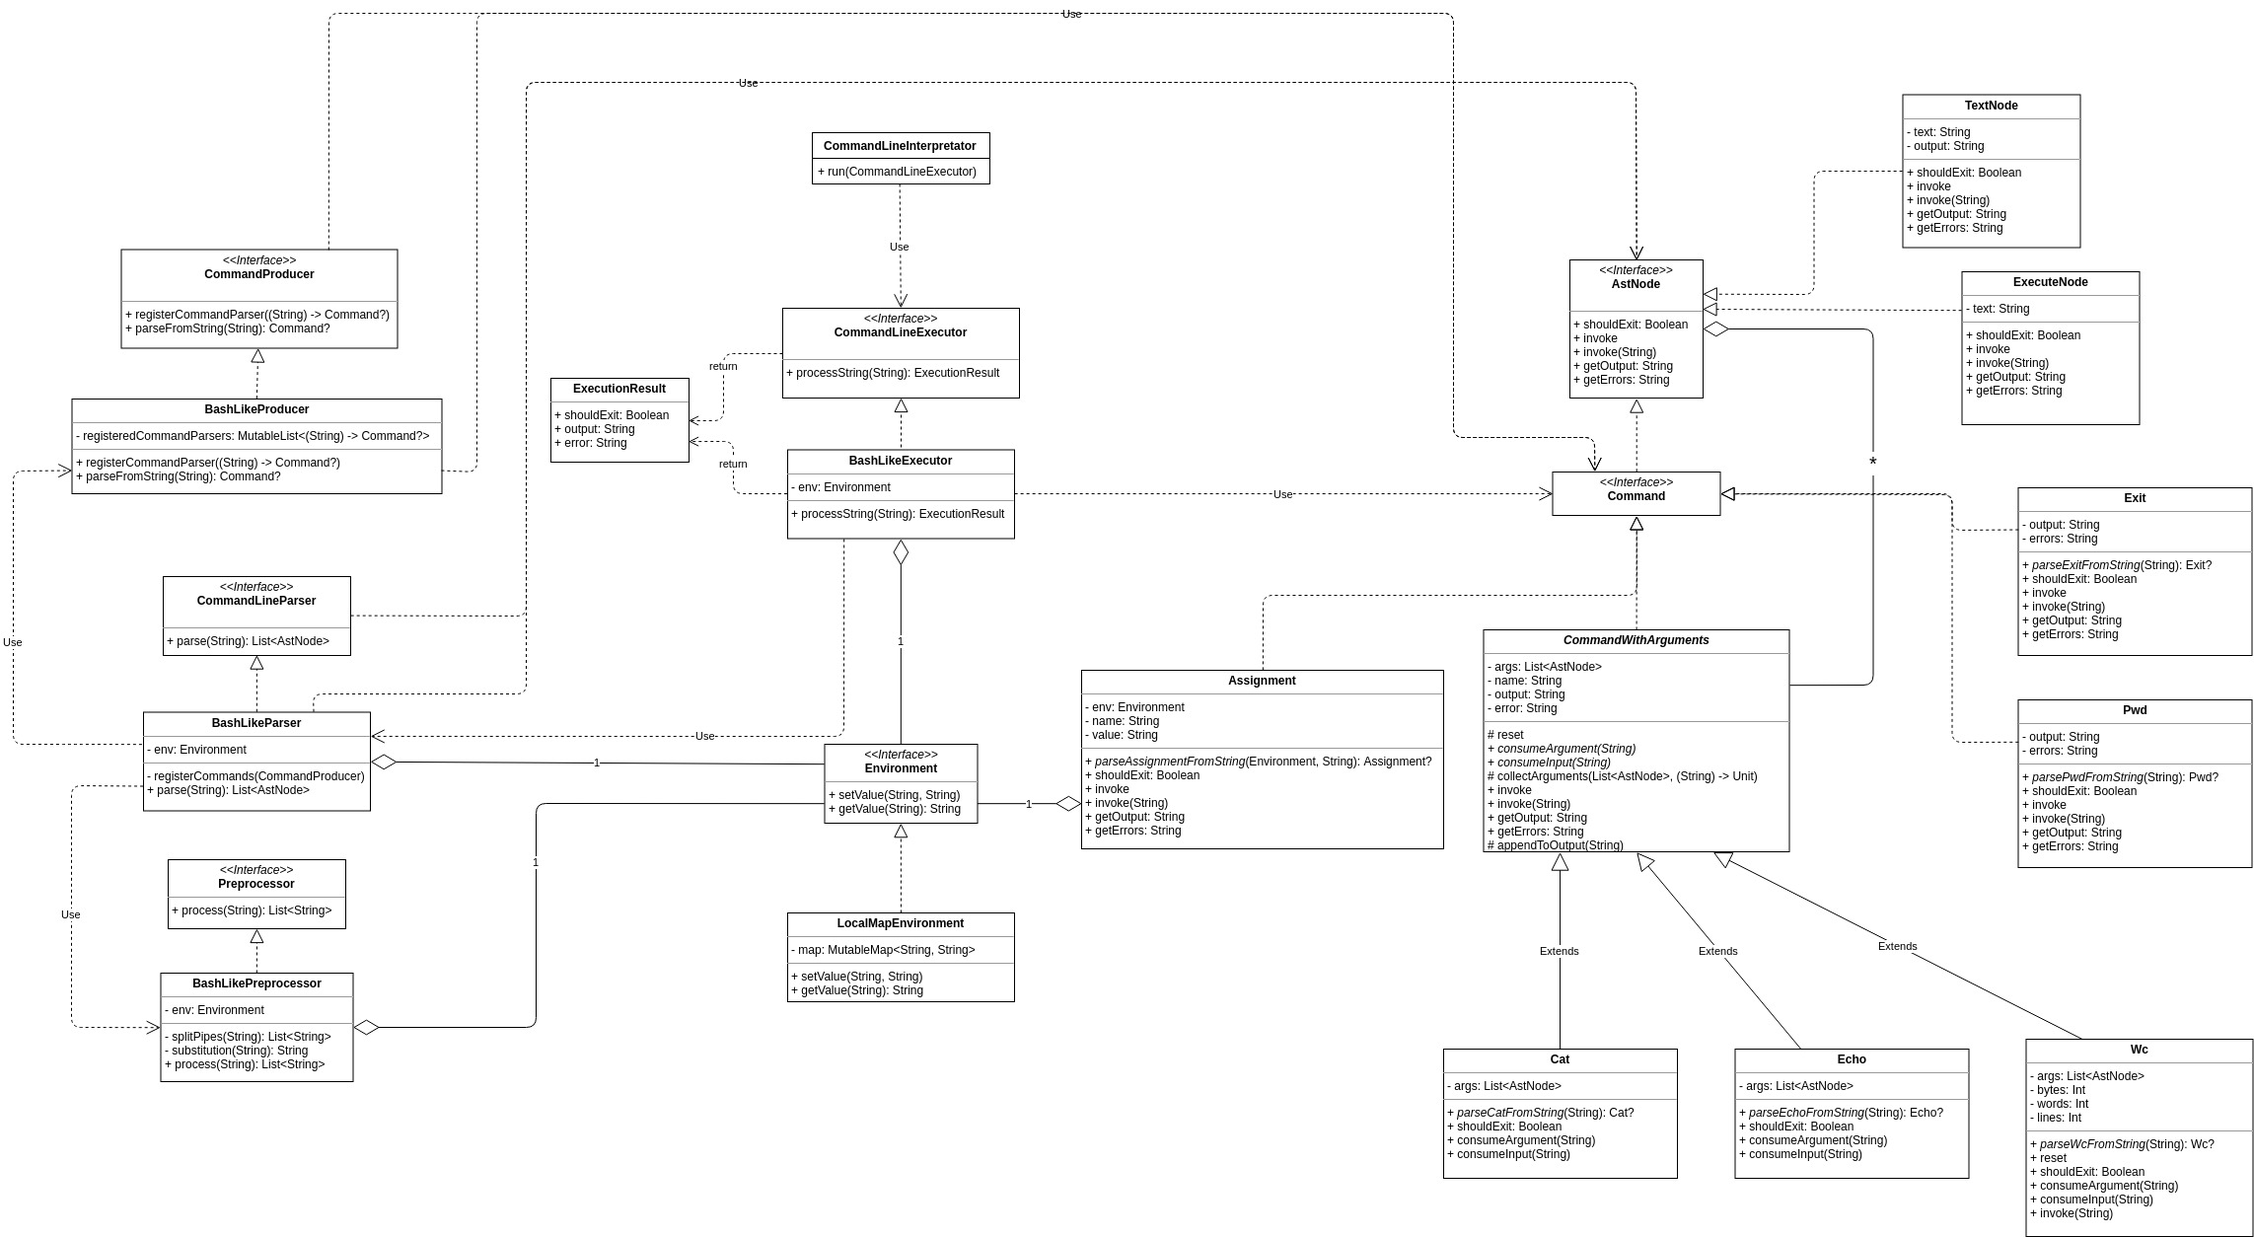
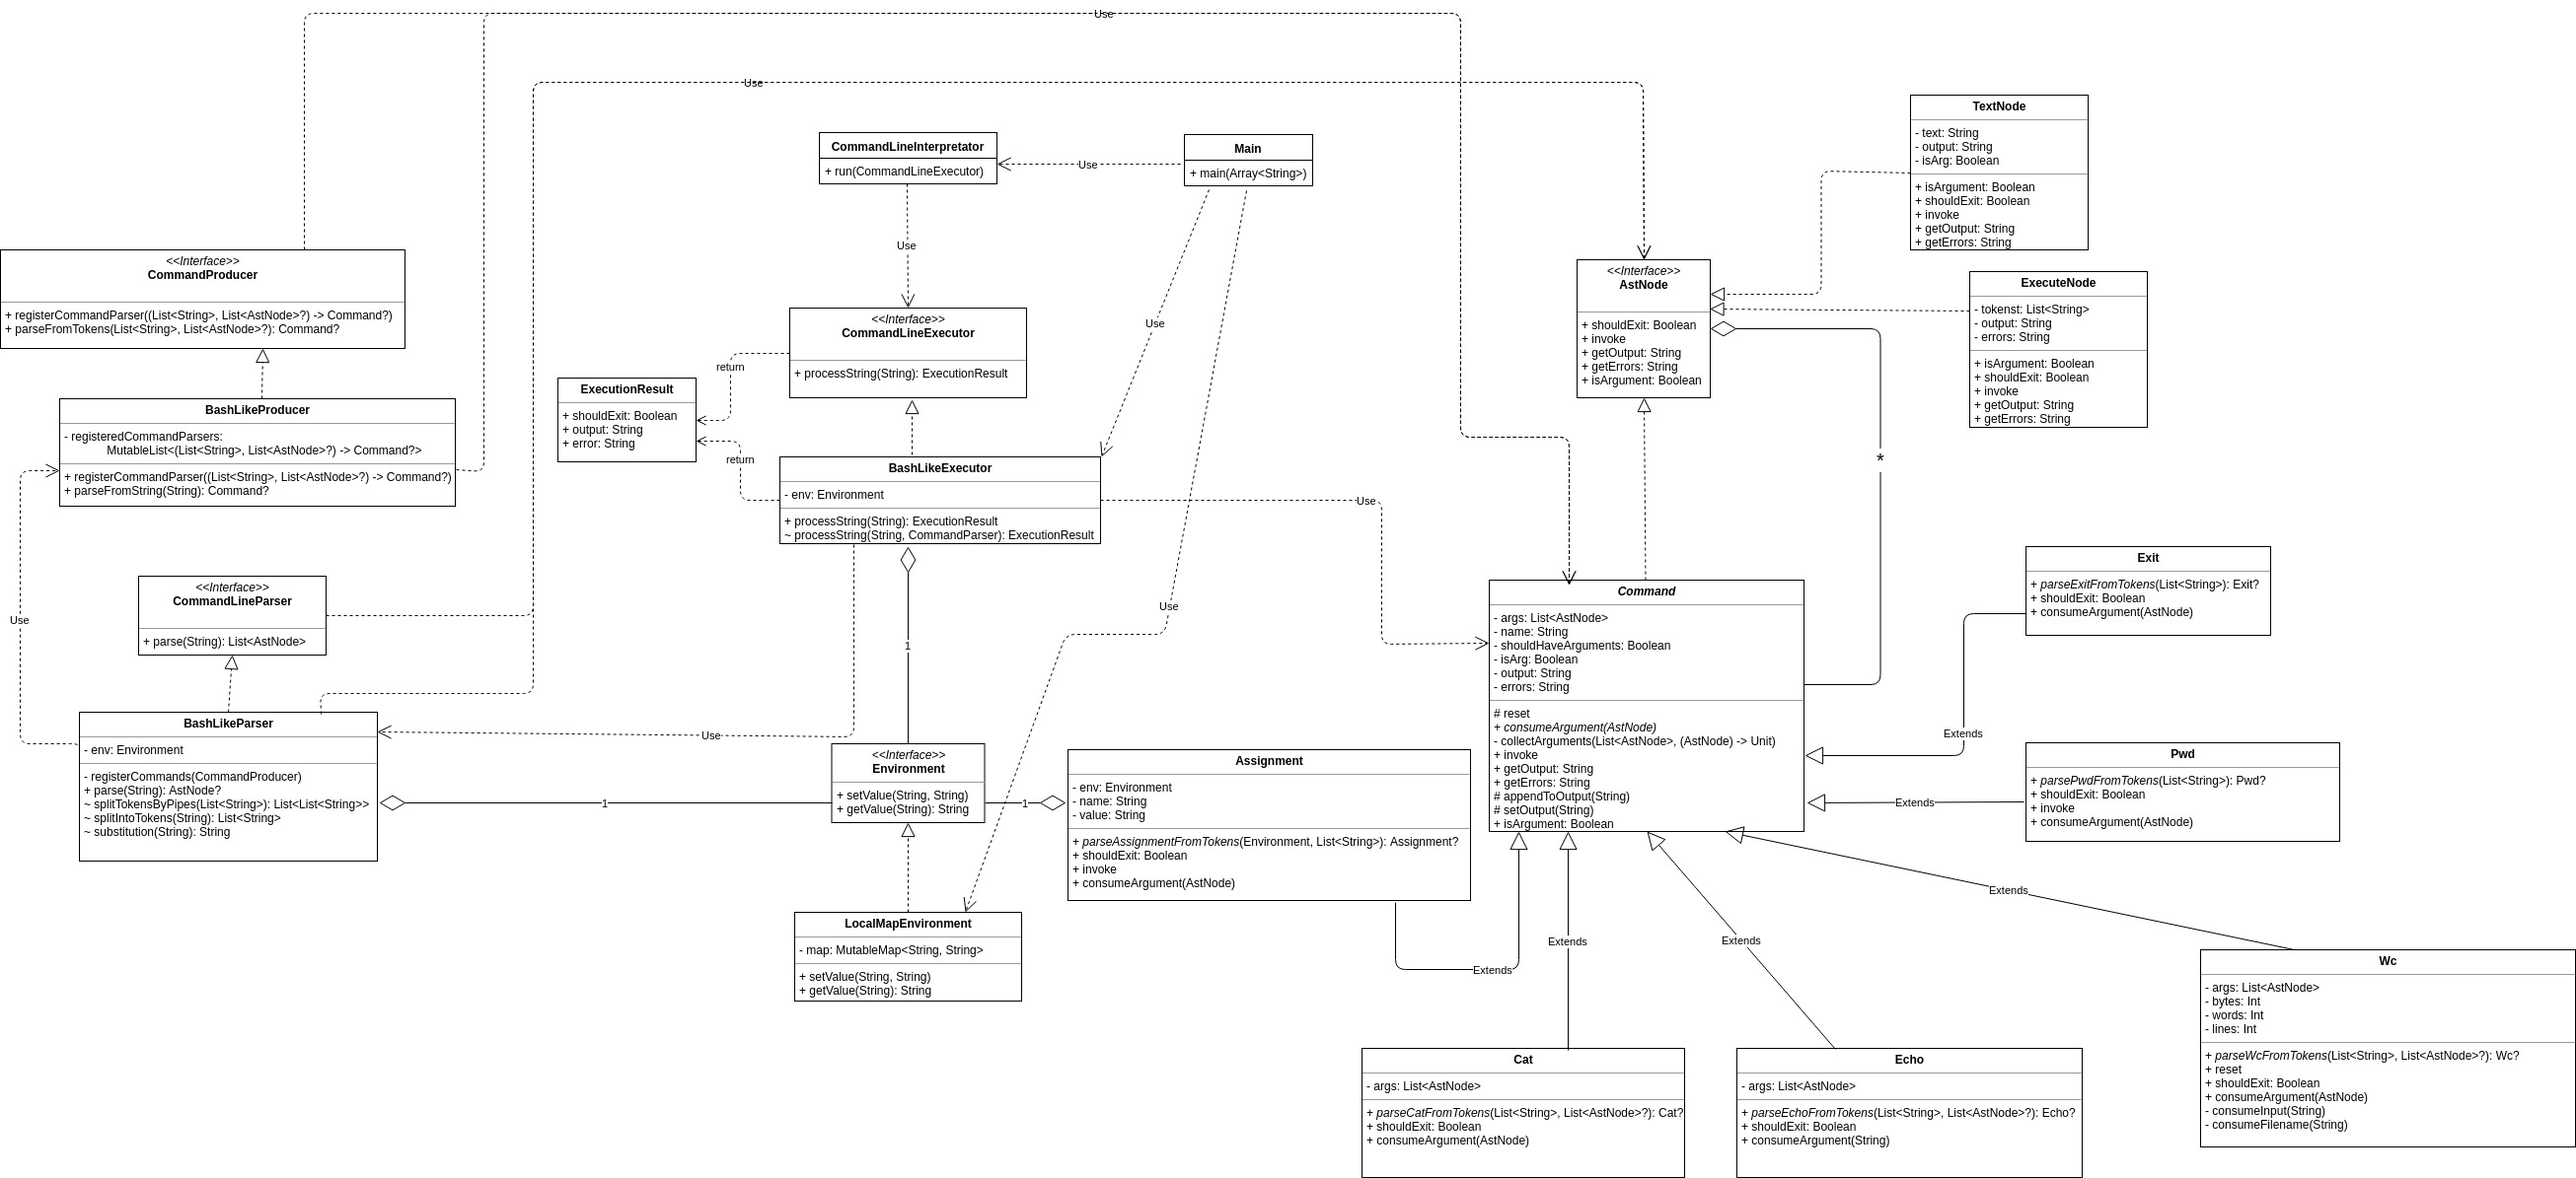
Description

diff --git a/01-cli/README.md b/01-cli/README.md
@@ -35,21 +35,48 @@
 **ExecutionResult** &ndash; хранит результат исполнения, а именно вывод в выходной поток и поток ошибок и то, пытается ли исполнение завершиться
 
 **BashLikeExecutor** &ndash; реализация **CommandLineExecutor** для описанного выше языка. Разбирает полученную строчку с помощью 
-**BashLikeParser**, получает список корней деревьев, соответствующий командам, соединенным через пайп и исполняет их в
-соответствующем порядке
+**BashLikeParser**, получает корень AST соответствующий коду и исполняет его
 
 **Environment** &ndash; интерфейс хранилища переменных со значениями
 
 **LocalMapEnvironment** &ndash; реализация **Environment** на основе Map
 
-**CommandLineParser** &ndash; интерфейс парсера, разбирает строчки в список корней синтаксических деревьев, соответствующих
-частям вызова, соединенным через пайп
+**CommandLineParser** &ndash; интерфейс парсера, разбирает строчки в синтаксические деревья, им соответствующие
 
-**BashLikeParser** &ndash; реализация **CommandLineParser**,
+**BashLikeParser** &ndash; реализация **CommandLineParser**, поддерживает кавычки, подстановки и пайпы. Сперва строка
+разбирается на токены (неделимые строки) с учетом особенностей кавычек, затем токены дробятся по пайпам на списки,
+организующиеся в будущие команды с аргументами. После при помощи **BashLikeProducer** из них строятся команды и соединяются
+в дерево.
 
+**CommandProducer** &ndash; интерфейс сущности, умеющей сохранять парсеры команд из токенов и затем
+применять их в том же порядке, в котором они были сохранены.
+
+**BashLikeProducer** &ndash; реализация **CommandProducer**
+
+**AstNode** &ndash; вершина синтаксического дерева для описанного языка
+
+## Вершины AST
+
+**Assignment**, **Cat**, **Echo**, **Exit**, **Pwd**, **Wc** &ndash; вершины, соответствующие командам, наследуются от 
+**Command**, абстрактного класса, реализующего общую для команд логику.
+
+**TextNode** &ndash; вершина для хранения текста. Используется для аргументов команд.
+
+**ExecuteNode** &ndash; вершина, оборачивающая команду, которая перенаправляется в bash.
 
 ## Архитектура
+Старая архитектура:
+
+<p align="center">
+<img src="images/architecture-old.jpg" />
+</p> 
+
+Новая архитектура:
 
 <p align="center">
 <img src="images/architecture.jpg" />
 </p> 
+
+* Убрано деление на команды с аргументами и без
+* Логика препроцессора перенесена в парсер
+* От построения нескольких деревьев и последующей их обработки **BashLikeExecutor** перешли к построению одного AST на этапе парсера
